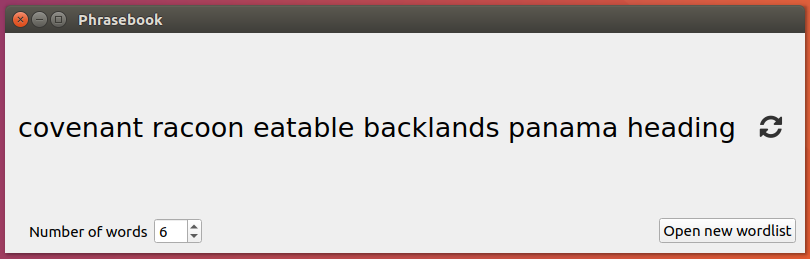
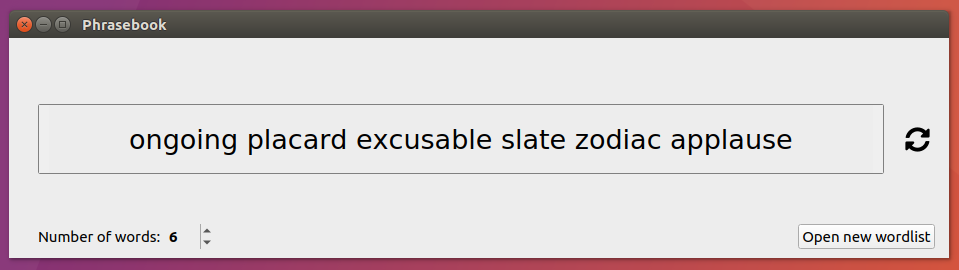
Styling changes
- Lower minimum width, raise default width
- add more spacing through the app
- make the background a little lighter

Changed region(s): [[0.0, 0.0, 1.0, 1.0]]

diff --git a/phrasebook/gui.py b/phrasebook/gui.py
@@ -26,13 +26,23 @@ class PhraseWindow(QtWidgets.QMainWindow):
         """
         QtWidgets.QMainWindow.__init__(self)
 
+        self.setStyleSheet(
+            """
+            QMainWindow {
+              background-color: #ededed;
+            }
+            """
+        )
+
         if word_list_path:
             if not self.open_file(word_list_path):
                 sys.exit(1)
         else:
             self.wordlist = Wordlist.for_locale(locale)
 
-        self.setMinimumSize(QSize(800, 220))
+        # Fits reasonably well on a 1024x768 srceen.
+        self.setMinimumSize(QSize(400, 220))
+        self.resize(940, 220)
         self.setWindowTitle("Phrasebook")
 
         central_widget = QtWidgets.QWidget(self)
@@ -48,24 +58,27 @@ class PhraseWindow(QtWidgets.QMainWindow):
         # Main passphrase display
         passphrase_line = QtWidgets.QHBoxLayout()
         self.passphrase_widget = PassphraseDisplayWidget("")
+        passphrase_line.addSpacing(20)
         passphrase_line.addWidget(self.passphrase_widget, 1)
 
         # Passphrase regeneration button
-        passphrase_line.addSpacing(10)
+        passphrase_line.addSpacing(15)
         passphrase_line.addWidget(
             RegenButton([self.gen_passphrase])
         )
         passphrase_line.addSpacing(10)
+        main_layout.addStretch()
         main_layout.addLayout(passphrase_line)
+        main_layout.addStretch()
 
         main_layout.addSpacing(15)
 
         settings_line_box = QtWidgets.QHBoxLayout()
         main_layout.addLayout(settings_line_box)
-        settings_line_box.addSpacing(15)
+        settings_line_box.addSpacing(20)
 
         # Selection box for number of words
-        settings_line_box.addWidget(QtWidgets.QLabel(_("Number of words"), self))
+        settings_line_box.addWidget(QtWidgets.QLabel(_("Number of words:"), self))
         self.num_words_widget = NumberOfWordsWidget(
                 num_words, len(self.wordlist.words), [self.gen_passphrase]
         )
@@ -73,6 +86,7 @@ class PhraseWindow(QtWidgets.QMainWindow):
 
         settings_line_box.addStretch()
         settings_line_box.addWidget(OpenNewWordlistButton(self.open_new_file))
+        settings_line_box.addSpacing(5)
 
         # Generate the initial passphrase
         self.gen_passphrase()
@@ -149,7 +163,14 @@ class PassphraseDisplayWidget(QtWidgets.QScrollArea):
         super().__init__()
         self.setWidget(self.PassphraseDisplayWidgetText(passphrase))
         self.setWidgetResizable(True)
-        self.setFrameStyle(0)
+        self.setStyleSheet(
+            """
+            QScrollArea {
+              border: 1px solid gray;
+              border-radius: 2px;
+            }
+            """
+        )
 
     def setText(self, passphrase):
         """
@@ -173,6 +194,15 @@ class PassphraseDisplayWidget(QtWidgets.QScrollArea):
             self.setFont(QFont('SansSerif', 20))
             self.setAlignment(QtCore.Qt.AlignCenter)
             self.setWordWrap(True)
+            self.setStyleSheet(
+                """
+                QLabel {
+                  background-color: #ededed;
+                  margin-left: 10px;
+                  margin-right: 10px;
+                }
+                """
+            )
 
 
 class RegenButton(QtWidgets.QLabel):
@@ -227,14 +257,11 @@ class NumberOfWordsWidget(QtWidgets.QSpinBox):
         self.setStyleSheet(
             """
             QSpinBox {
-              background-color : #efefef;
-              selection-background-color : #efefef;
+              background-color: #ededed;
+              selection-background-color: #ededed;
               selection-color: black;
               font-weight: bold;
               color: black;
-            }
-            QLineEdit {
-              border: 0px solid black;
             }
             """
         )
